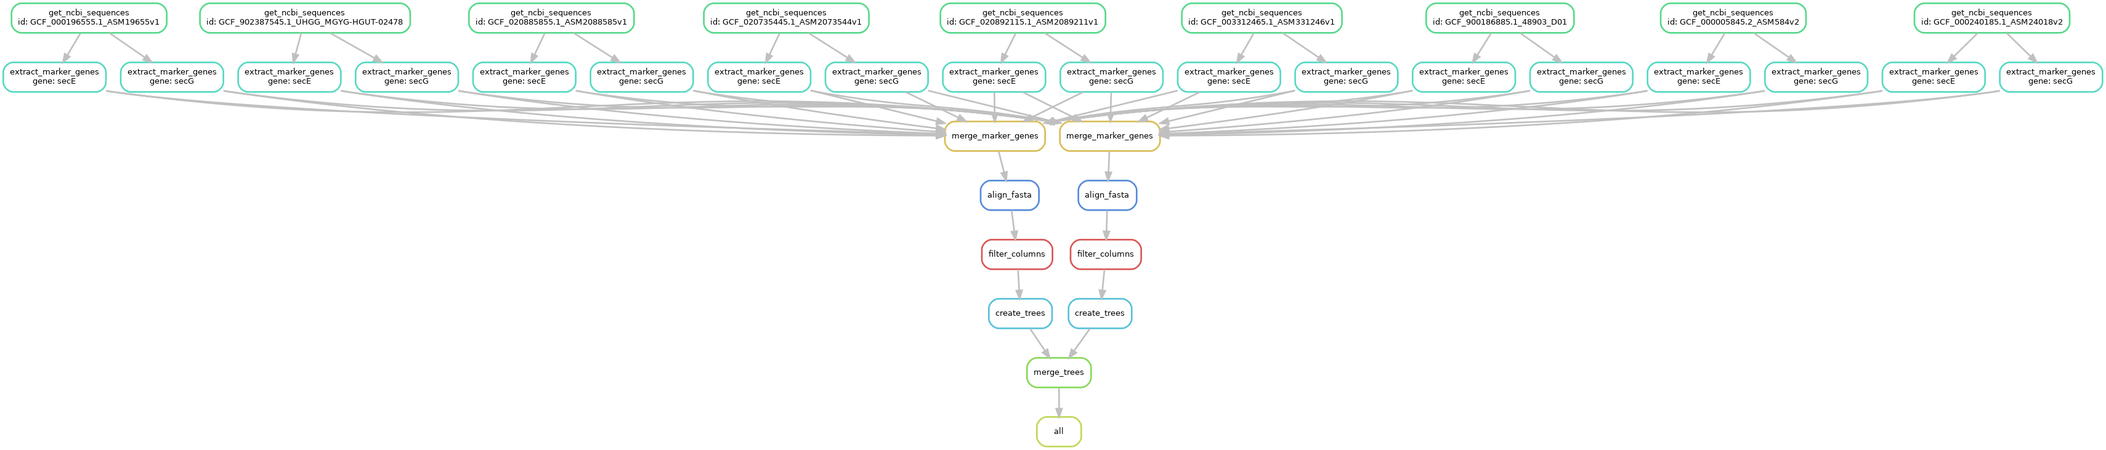
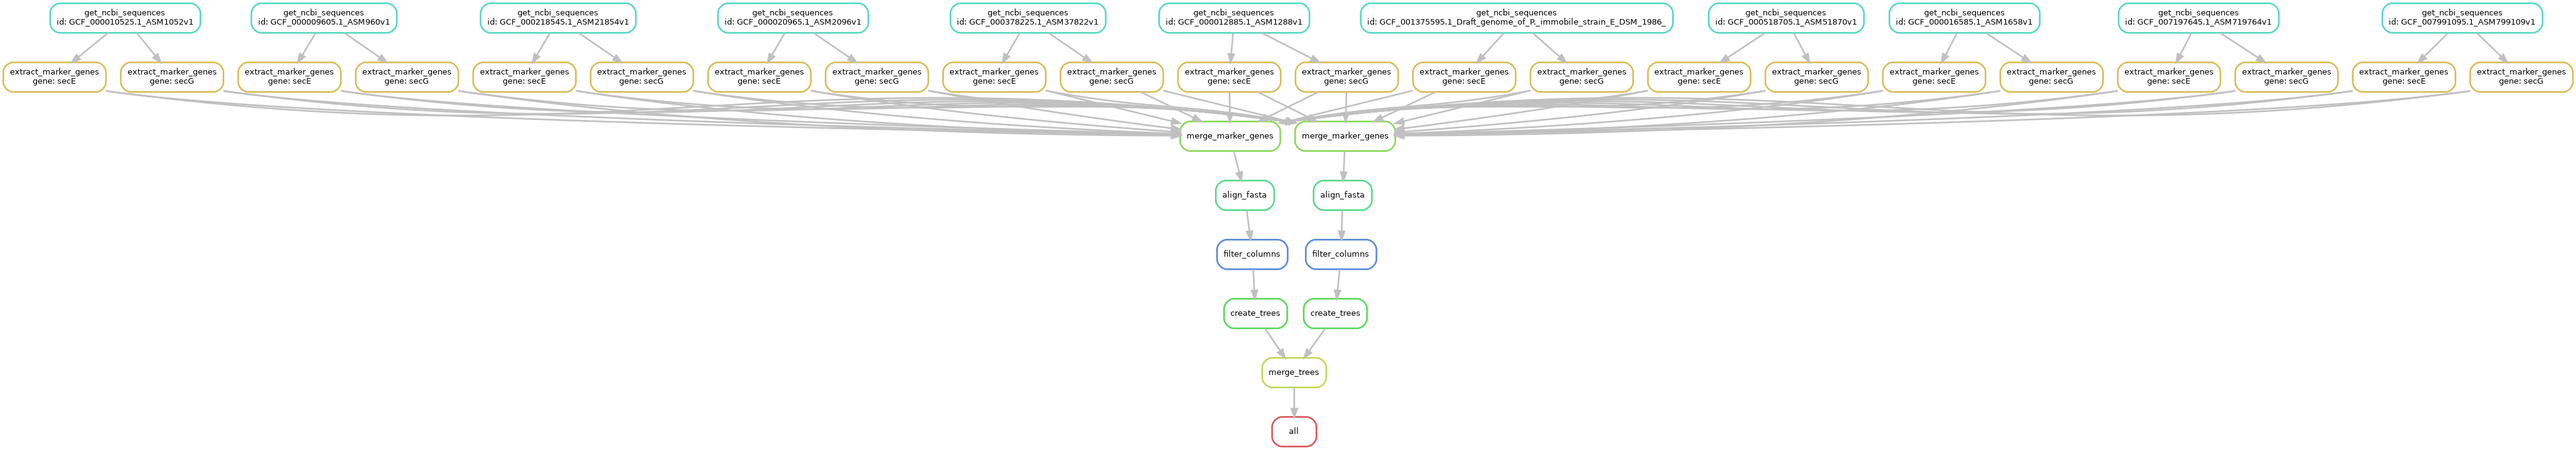
Modify pipeline to take kraken report as input

diff --git a/filterGenes.py b/filterGenes.py
@@ -1,22 +1,40 @@
+# Utils for parsing fasta files
 import collections
 import re
+import csv
 
 # Gets the taxon id (NCBI) for the given genome id from the assembly report
+# DEPRECATED: Use get_txid() to get txid from the input kraken report
 # @param id is the genome id from NCBI
 # @return is the taxon id
-def get_txid(id):
+def get_txid_assembly(id):
     assembly_report = open("ncbi/" + id + "_assembly_report.txt")
     lines = assembly_report.readlines()
     for line in lines:
         if "# Taxid:" in line:
             return re.findall(r'\d+', line)[0]
 
+# Gets the taxon id (NCBI) for the given id from the kraken report
+# @param id is the genome id from NCBI
+# @param kraken is the path to the kraken report
+# @return is the taxon id
+def get_txid(id, kraken):
+    with open(kraken, newline="") as krakenF:
+        tsv = csv.reader(krakenF, dialect=csv.excel_tab)
+        firstLine = next(tsv)
+        idIndex = firstLine.index("assembly_accession")
+        txIndex = firstLine.index("taxid")
+        for line in tsv:
+            partialId = id.split("_")[0] + "_" + id.split("_")[1]
+            if line[idIndex] == partialId:
+                return line[txIndex]
+
 # Filters sequences in a fasta file for a specific input gene
 # N.B. This will only print the first occurunce of a gene in the file
 # @param seqsFile is the path to the file to be parsed
 # @param seq_genes is a list of genes to be filtered for (N.B. I've only tested this with list size 1)
 # @return is undefined, this is intended to be run from the shell and then stdout is captured
-def filter_seq_genes(seqsFile, seq_genes):
+def filter_seq_genes(seqsFile, seq_genes, kraken):
     id = seqsFile.split("/")[1].split("_cds")[0]
     fasta = open(seqsFile, "r")
     seqs = fasta.readlines()
@@ -38,7 +56,7 @@ def filter_seq_genes(seqsFile, seq_genes):
         if match:
             gene_name = seq_gene.strip('[gene=').strip(']')
             if gene_name in seq_genes:
-                retVal = ">" + get_txid(id) + " " + " ".join(gene[0].split(" ")[1:])
+                retVal = ">" + get_txid(id, kraken) + " " + " ".join(gene[0].split(" ")[1:])
                 print(retVal)
                 print(gene[1])
                 break
@@ -48,6 +66,6 @@ def filter_seq_genes(seqsFile, seq_genes):
 # @param output is the output file path for the snakemake rule, it is intended to take the form
 #        dir/GENE__restOfFileName.fasta
 # @return is undefined, see filter_seq_genes
-def filter_seq_genes_sm(seqsFile, output):
+def filter_seq_genes_sm(seqsFile, output, kraken):
     seq_genes = [output.split("/")[1].split("__")[0]]
-    filter_seq_genes(seqsFile, seq_genes)
+    filter_seq_genes(seqsFile, seq_genes, kraken)

diff --git a/downloadGenes.py b/downloadGenes.py
@@ -1,0 +1,31 @@
+#!~/mambaforge/envs/shotguntree_env/bin/ python3
+# Downloads genome from NCBI for a given genome id
+# @param out is the output file continaing the accession of the desired genome for download
+#        taking the form ncbi/{ID}_cds_from_genomic.fasta
+# @param kraken is the kraken file containing info on all the listed accessions
+
+import csv
+import sys
+import os
+#import wget
+#import gzip
+#import shutil
+
+out = sys.argv[1]
+kraken = sys.argv[2]
+id = out[5:-23]
+with open(kraken, newline="") as krakenF:
+    tsv = csv.reader(krakenF, dialect=csv.excel_tab)
+    firstLine = next(tsv)
+    idIndex = firstLine.index("assembly_accession")
+    ftpIndex = firstLine.index("ftp_path")
+    for line in tsv:
+        partialId = id.split("_")[0] + "_" + id.split("_")[1]
+        if line[idIndex] == partialId:
+            url = line[ftpIndex] + "/" + id + "_cds_from_genomic.fna.gz"
+            # TODO: test for existence of wget and gzip in environment
+            # Would benefit from containerization
+            os.system("wget " + url + " -P ncbi/")
+            os.system("gzip -d ncbi/" + id + "_cds_from_genomic.fna.gz")
+            os.system("mv ncbi/" + id + "_cds_from_genomic.fna ncbi/" + id + "_cds_from_genomic.fasta")
+            break

diff --git a/run.py b/run.py
@@ -1,0 +1,25 @@
+#!~/anaconda3/bin/ python3
+# Wrapper for the tree building pipeline
+# @param input is the Kraken input file
+
+import csv
+import sys
+import os
+
+# Write config file for this run
+input = sys.argv[1]
+with open(input, newline="") as inputF:
+    tsv = csv.reader(inputF, dialect=csv.excel_tab)
+    idIndex = next(tsv).index("ftp_path")
+    with open("config.yml", "w") as config:
+        config.write("# Config file for tree building pipeline\n")
+        config.write("# Kraken output file\n")
+        config.write("KRAKEN: \"" + input + "\"\n")
+        config.write("# Genome accessions (NCBI)\n")
+        config.write("IDS: [")
+        for line in tsv:
+            val = line[idIndex].split("/")[-1]
+            config.write("\"" + val + "\", ")
+        config.write("]")
+
+os.system("snakemake -c1")

diff --git a/README.md b/README.md
@@ -11,4 +11,4 @@
 To generate tree:
 
     conda activate shotguntree_env
-    snakemake -c1
+    python run.py data/kraken2_standard_20200204_select_genomes.txt
